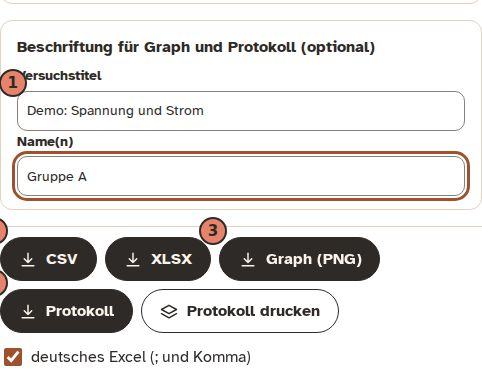
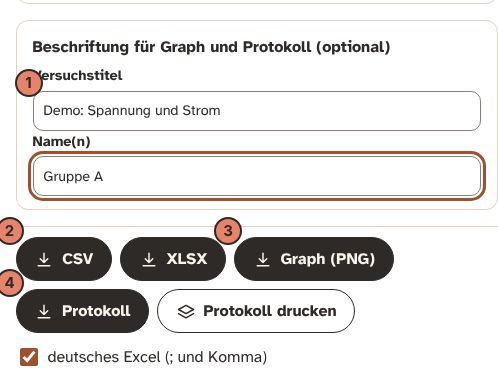
Anleitung: Tabelle „Wenn etwas nicht klappt“ (Klasse help kollidierte mit dem ?-Knopf), Markierungen 2 und 4 im Exportbild, Bilder neu; Dreh-Anfasser fürs Rechteck der Digitalanzeige
Claude-Session: https://claude.ai/code/session_01ERmZPzoj8CR43WzzvWRdR3

diff --git a/anleitung.html b/anleitung.html
@@ -126,9 +126,9 @@
         <h3>Digitalanzeige</h3>
         <figure>
           <img src="/anleitung-bilder/03-digital.jpg" alt="Digitalanzeige mit Rechteck um die Ziffern" />
-          <figcaption><ol class="legend"><li>Ein Rechteck eng um die Ziffern ziehen. Das Rechteck lässt sich später verschieben.</li></ol></figcaption>
+          <figcaption><ol class="legend"><li>Ein Rechteck eng um die Ziffern ziehen. Das Rechteck lässt sich später verschieben, und am runden Anfasser darüber lässt es sich drehen, wenn die Anzeige schief steht.</li></ol></figcaption>
         </figure>
-        <p>Stelle <b>Ziffern</b> (Anzahl der Stellen) und bei Bedarf <b>Dezimalstellen</b> ein, wenn die Anzeige keinen Punkt zeigt. Beim Wechsel des Messbereichs am Multimeter müssen Einheit und Dezimalstellen hier angepasst werden. <b>Anzeige steht schief im Bild?</b> Das Video lässt sich unter dem Bild um 90° nach links oder rechts drehen. Für kleinere Schrägen gibt es in der Gerätekarte das Feld „Anzeige drehen“ (−45° bis +45°, positiv = im Uhrzeigersinn): Das Rechteck im Bild dreht sich mit, und die App liest die Ziffern erst gerade gestellt. Stelle den Winkel so ein, dass die Ziffern parallel zu den Rechteckkanten stehen. Die leichte Kursivschrift von LCD-Ziffern gleicht die App selbst aus. <b>Tipps für LCD-Multimeter:</b> Rechteck eng um die Ziffern, Kamera ruhig halten (Stativ), Dezimalstellen fest eintragen (sonst hält die App Staub für einen Punkt). Beim Umschalten der Anzeige stehen schwache Nachbilder der alten Ziffern; einzelne Ausreißer im Graphen mit „Glätten“ entfernen, mehrere Bilder lange Spitzen in der Wertetabelle von Hand korrigieren.</p>
+        <p>Stelle <b>Ziffern</b> (Anzahl der Stellen) und bei Bedarf <b>Dezimalstellen</b> ein, wenn die Anzeige keinen Punkt zeigt. Beim Wechsel des Messbereichs am Multimeter müssen Einheit und Dezimalstellen hier angepasst werden. <b>Anzeige steht schief im Bild?</b> Das Video lässt sich unter dem Bild um 90° nach links oder rechts drehen. Für kleinere Schrägen sitzt über der oberen Kante des Rechtecks ein runder Anfasser mit Drehpfeil: Ziehe ihn nach links oder rechts, bis das Rechteck parallel zu den Ziffern steht (−45° bis +45°, nahe 0° rastet er auf 0° ein). Der Winkel steht auch in der Gerätekarte im Feld „Anzeige drehen“ und lässt sich dort eintippen (positiv = im Uhrzeigersinn). Die App liest die Ziffern erst gerade gestellt. Stelle den Winkel so ein, dass die Ziffern parallel zu den Rechteckkanten stehen. Die leichte Kursivschrift von LCD-Ziffern gleicht die App selbst aus. <b>Tipps für LCD-Multimeter:</b> Rechteck eng um die Ziffern, Kamera ruhig halten (Stativ), Dezimalstellen fest eintragen (sonst hält die App Staub für einen Punkt). Beim Umschalten der Anzeige stehen schwache Nachbilder der alten Ziffern; einzelne Ausreißer im Graphen mit „Glätten“ entfernen, mehrere Bilder lange Spitzen in der Wertetabelle von Hand korrigieren.</p>
 
         <h3>Gerätekarte: Schrift, Unsicherheit, Ziffern anlernen</h3>
         <figure>
@@ -318,7 +318,7 @@
 
       <section id="hilfe">
         <h2>Wenn etwas nicht klappt</h2>
-        <table class="plain help">
+        <table class="plain hilfetabelle">
           <thead><tr><th>Problem</th><th>Was hilft</th></tr></thead>
           <tbody>
             <tr><td>Die Zahl oben stimmt nicht oder steht auf „unsicher“.</td><td>Skalenwerte und Punkte prüfen und mit der Maus nachziehen. Bei Digitalanzeigen die Schrift auf „LCD / Punktmatrix“ stellen oder Ziffern anlernen. Auf Unschärfe, Spiegelung und Kontrast achten (die App warnt).</td></tr>
@@ -337,7 +337,7 @@
         <h2>Datenschutz und Grenzen</h2>
         <ul>
           <li><b>Lokal:</b> Video, Bilder und Messwerte verlassen dein Gerät nicht. Es gibt kein Konto und keinen Server. Nach dem ersten Laden funktioniert die App auch ohne Netz, und sie lässt sich als App installieren.</li>
-          <li><b>Noch nicht an echten Geräten getestet:</b> Die Ablesung wurde mit synthetischen Bildern und der Demo geprüft, noch nicht an PHYWE-Geräten oder Multimetern im Unterricht. Prüfe die Live-Zahl immer gegen das Gerät.</li>
+          <li><b>Noch nicht an echten Geräten getestet:</b> Die Ablesung wurde mit synthetischen Bildern, der Demo und zwei Handy-Videos (zwei Zeigerinstrumente, ein Digitalmultimeter, Auswertung im Repository unter <code>docs/analyse/</code>) geprüft, noch nicht live mit der Kamera, an PHYWE-Geräten oder im Unterricht. Prüfe die Live-Zahl immer gegen das Gerät.</li>
           <li><b>Kamera:</b> Das Bild muss ruhig stehen. Verrutschen, Linsenverzerrung und Bewegung auf die Kamera zu werden nicht ausgeglichen.</li>
           <li><b>Lichtschranke und Marker:</b> Die Zeitauflösung ist ein Bildabstand (interpoliert deutlich besser). Wechselndes Raumlicht kann Durchgänge vortäuschen.</li>
         </ul>

diff --git a/src/main.ts b/src/main.ts
@@ -38,7 +38,7 @@ import { STORAGE_KEY, calibrationFile, parseCalibrationFile, parseState, seriali
 
 /* ============================== Zustand ============================== */
 
-type PointKey = 'pivot' | 'p1' | 'p2' | 'p3' | 'roi';
+type PointKey = 'pivot' | 'p1' | 'p2' | 'p3' | 'roi' | 'rot';
 type Step = 'pivot' | 'ref1' | 'ref2' | 'ref3' | 'roi';
 
 interface Chan {
@@ -705,12 +705,25 @@ function pointsOf(c: Chan): { key: PointKey; p: Point }[] {
   return [];
 }
 
+/** Abstand des Dreh-Anfassers über der oberen Kante des Rechtecks (Bildpunkte der Ansicht). */
+function rotOffset(): number { return 28 * (view.width / Math.max(1, view.getBoundingClientRect().width || view.width)); }
+/** Punkt in das Koordinatensystem des (gedrehten) Rechtecks umrechnen: Ursprung links oben im Rechteck. */
+function toRoiLocal(roi: NonNullable<Chan['roi']>, p: Point): Point {
+  const a = -((roi.angle ?? 0) * Math.PI) / 180, mx = roi.x + roi.w / 2, my = roi.y + roi.h / 2;
+  const dx = p.x - mx, dy = p.y - my;
+  return { x: roi.w / 2 + dx * Math.cos(a) - dy * Math.sin(a), y: roi.h / 2 + dx * Math.sin(a) + dy * Math.cos(a) };
+}
+
 function hit(p: Point): { id: string; key: PointKey } | null {
   const r = view.getBoundingClientRect();
   const tol = 16 * (view.width / r.width);
   for (const c of chans) {
     for (const q of pointsOf(c)) if (Math.hypot(q.p.x - p.x, q.p.y - p.y) <= tol) return { id: c.id, key: q.key };
-    if (c.roi && p.x >= c.roi.x && p.x <= c.roi.x + c.roi.w && p.y >= c.roi.y && p.y <= c.roi.y + c.roi.h) return { id: c.id, key: 'roi' };
+    if (c.type === 'digital' && c.roi) {
+      const l = toRoiLocal(c.roi, p);
+      if (Math.hypot(l.x - c.roi.w / 2, l.y + rotOffset()) <= tol) return { id: c.id, key: 'rot' };
+      if (l.x >= 0 && l.x <= c.roi.w && l.y >= 0 && l.y <= c.roi.h) return { id: c.id, key: 'roi' };
+    }
   }
   return null;
 }
@@ -735,7 +748,7 @@ view.addEventListener('pointerdown', (e) => {
   const c = chan(h.id);
   sel = h;
   view.setPointerCapture(e.pointerId);
-  const origin = h.key === 'roi' ? c.roi! : c.raw[h.key]!;
+  const origin = h.key === 'roi' ? c.roi! : h.key === 'rot' ? { x: p.x, y: p.y } : c.raw[h.key]!;
   dragging = { ...h, grab: { x: p.x - origin.x, y: p.y - origin.y }, before: JSON.stringify({ raw: c.raw, roi: c.roi }) };
 });
 view.addEventListener('pointermove', (e) => {
@@ -745,6 +758,15 @@ view.addEventListener('pointermove', (e) => {
   if (dragging) {
     const c = chan(dragging.id);
     const x = p.x - dragging.grab.x, y = p.y - dragging.grab.y;
+    if (dragging.key === 'rot') {
+      const roi = c.roi!, deg = (Math.atan2(p.x - (roi.x + roi.w / 2), -(p.y - (roi.y + roi.h / 2))) * 180) / Math.PI;
+      const a = Math.round(Math.max(-45, Math.min(45, deg)) * 2) / 2; // in halben Graden, wie das Zahlenfeld
+      c.roi = { ...roi, angle: Math.abs(a) < 1 ? 0 : a };
+      const inp = document.querySelector<HTMLInputElement>(`.chan[data-id="${c.id}"] input[data-f="angle"]`);
+      if (inp) inp.value = String(c.roi.angle ?? 0);
+      rebuildCal(c);
+      return;
+    }
     if (dragging.key === 'roi') c.roi = { ...c.roi!, x, y };
     else c.raw = { ...c.raw, [dragging.key]: { x, y } };
     rebuildCal(c);
@@ -1010,6 +1032,16 @@ function drawOverlay(): void {
         vctx.setLineDash([3 * scale, 5 * scale]);
         for (let i = 1; i < c.digits; i++) strokeHalo(() => { vctx.beginPath(); vctx.moveTo(c.roi!.x + i * cw, c.roi!.y); vctx.lineTo(c.roi!.x + i * cw, c.roi!.y + c.roi!.h); }, col, 1);
         vctx.setLineDash([]);
+      }
+      {
+        // Anfasser zum Drehen: Knopf über der oberen Kante, mit Strich zum Rechteck
+        const hx = c.roi.x + c.roi.w / 2, hy = c.roi.y - 28 * scale, grabbed = dragging?.id === c.id && dragging.key === 'rot';
+        strokeHalo(() => { vctx.beginPath(); vctx.moveTo(hx, c.roi!.y); vctx.lineTo(hx, hy + 9 * scale); }, col, 1.5);
+        vctx.beginPath(); vctx.arc(hx, hy, 10 * scale, 0, 7); vctx.fillStyle = grabbed ? '#F6B48F' : col; vctx.fill();
+        vctx.lineWidth = 2; vctx.strokeStyle = 'rgb(0 0 0 / .75)'; vctx.stroke();
+        // Drehpfeil im Knopf
+        vctx.beginPath(); vctx.arc(hx, hy, 4.5 * scale, -2.6, 0.9); vctx.lineWidth = 1.8; vctx.strokeStyle = '#fff'; vctx.stroke();
+        vctx.beginPath(); vctx.moveTo(hx + 4.5 * scale * Math.cos(0.9) + 3 * scale, hy + 4.5 * scale * Math.sin(0.9) - 1 * scale); vctx.lineTo(hx + 4.5 * scale * Math.cos(0.9), hy + 4.5 * scale * Math.sin(0.9) + 3.5 * scale); vctx.lineTo(hx + 4.5 * scale * Math.cos(0.9) - 3.5 * scale, hy + 4.5 * scale * Math.sin(0.9) - 0.5 * scale); vctx.stroke();
       }
       vctx.restore();
     }

diff --git a/README.md b/README.md
@@ -116,7 +116,7 @@ Struktur: `src/readers` (Analog/Digital), `src/source` (Kamera/Datei/Demo), `src
 - Videodateien: Standardrate 30 pro Sekunde (2 pro Sekunde ließ den Graphen bei bewegtem Zeiger dünn aussehen); ab 10 pro Sekunde wird das Video abgespielt und je Bild (requestVideoFrameCallback) abgetastet statt Bild für Bild zu springen: bei einem 16-s-Video in 1080p etwa 30 s statt 96 s, mit der echten Bildzeit. Die App nennt vorab die Zahl der Messpunkte. Ältere Browser ohne diese Funktion springen weiter.
 - Updates: Der Service Worker holt die Startseite online zuerst vom Netz (nach 3 s Wartezeit oder offline aus dem Speicher) und sucht bei jedem Start nach einer neuen Version; eine neue Version erscheint damit nach einmal Neuladen (`tests/e2e-update.mjs`). Wer noch eine ältere Version im Browser hat, braucht einmalig zwei Neuladevorgänge. Unten auf der Seite steht die Versionskennung.
 - Zeigerinstrumente: Gesucht wird nur im Skalenbereich, gegen den örtlichen Hintergrund; die Bogenrichtung (kleiner/größer als 180°) wird am Zeiger erkannt. Liegt der Drehpunkt hinter dem Gehäuse (typisch für Demo-Multimeter), wird er aus drei Skalenstrichen berechnet. An einem echten Demo-Multimeter (30-V-Skala, Video vom Handy) lag der Median-Fehler so bei etwa 0,4 V; mit einem Klick auf das sichtbare Zeigerende statt des verdeckten Drehpunkts bei etwa 5 V. Schräge Aufnahmen (Skala wird zur Ellipse) und starke Spiegelungen bleiben eine Fehlerquelle. Messungen und Befunde zu einem echten Demo-Multimeter: [`docs/analyse/demo-multimeter.md`](docs/analyse/demo-multimeter.md). Rote Zeiger werden nach Farbe gelesen (erkannt beim Kalibrieren); „Drehpunkt aus Video bestimmen“ schneidet die Zeigerlinien vieler Bilder und braucht mindestens 3° Zeigerbewegung. Bei zwei Videos mit Zeigerinstrumenten (Klasse 2,5) und einem Digitalmultimeter lag die App beim Zeiger höchstens 0,003 A neben meiner Gegenprobe (Klassentoleranz ±0,015 A), beim Digitalmultimeter waren 7 von 186 Werten Fehlablesungen (LCD-Nachbilder, verrutschtes Rechteck). Fehlerliste mit Bildern: [`docs/analyse/ohm-versuch-zwei-videos.md`](docs/analyse/ohm-versuch-zwei-videos.md).
-- Digital: Bild drehen (±90°) und „Anzeige drehen“ (−45° bis +45°, dreht das Rechteck und liest die Ziffern gerade gestellt) gleichen quer oder schief gefilmte Anzeigen aus; `tests/digital-angle.test.ts` prüft das an künstlich gedrehten Bildern, am echten Multimeter-Video habe ich nur geprüft, dass das Rechteck mitdreht und weiter richtig gelesen wird. 7-Segment-Anzeigen werden per Segmentabtastung gelesen. Für LCD (schwacher Kontrast, Schrägschrift, Lichtverlauf) und Punktmatrix-Anzeigen (5×7) gibt es den Zeichenvergleich, im Modus „automatisch“ als Rückfall. Er kennt eingebaute Vorlagen und lernt die Ziffern des eigenen Geräts an. Andere Schriften (Buchstaben, Sonderzeichen) liest er nicht; bei Punktmatrix zählt der Dezimalpunkt als eigene Zelle.
+- Digital: Bild drehen (±90°) und „Anzeige drehen“ (−45° bis +45°: runder Anfasser über dem Rechteck oder Zahlenfeld, die Ziffern werden gerade gestellt gelesen) gleichen quer oder schief gefilmte Anzeigen aus; `tests/digital-angle.test.ts` prüft das an künstlich gedrehten Bildern, `tests/e2e-roi-rotate.mjs` das Ziehen am Anfasser, am echten Multimeter-Video habe ich nur geprüft, dass das Rechteck mitdreht und weiter richtig gelesen wird. 7-Segment-Anzeigen werden per Segmentabtastung gelesen. Für LCD (schwacher Kontrast, Schrägschrift, Lichtverlauf) und Punktmatrix-Anzeigen (5×7) gibt es den Zeichenvergleich, im Modus „automatisch“ als Rückfall. Er kennt eingebaute Vorlagen und lernt die Ziffern des eigenen Geräts an. Andere Schriften (Buchstaben, Sonderzeichen) liest er nicht; bei Punktmatrix zählt der Dezimalpunkt als eigene Zelle.
 - Mikrofon: Der Pegel ist relativ, kein geeichter Schalldruckpegel. Mit dem echten Mikrofon ist die Funktion nicht getestet (nur mit dem Demo-Ton und synthetischen Signalen); Eingangsempfindlichkeit und Rauschen hängen vom Gerät ab. Gemessen wird der lauteste Ton; zwei Töne gleichzeitig (Schwebung) erscheinen als schwankender Pegel, nicht als zwei Frequenzen.
 - Echte Geräte: Kamera, Mikrofon, Beamer und Screenreader sind nur mit Demo-Quellen automatisch getestet. Eine Prüfliste für den Test im Unterricht steht in `docs/pruefliste-echte-geraete.md`.
 - Lichtschranke: Die Zeitauflösung ist ein Bildabstand (bei 30 Bildern pro Sekunde etwa 33 ms, interpoliert deutlich besser). Wechselndes Licht im Raum kann Durchgänge vortäuschen; die Grundhelligkeit wird über die ganze Aufnahme gemittelt.
